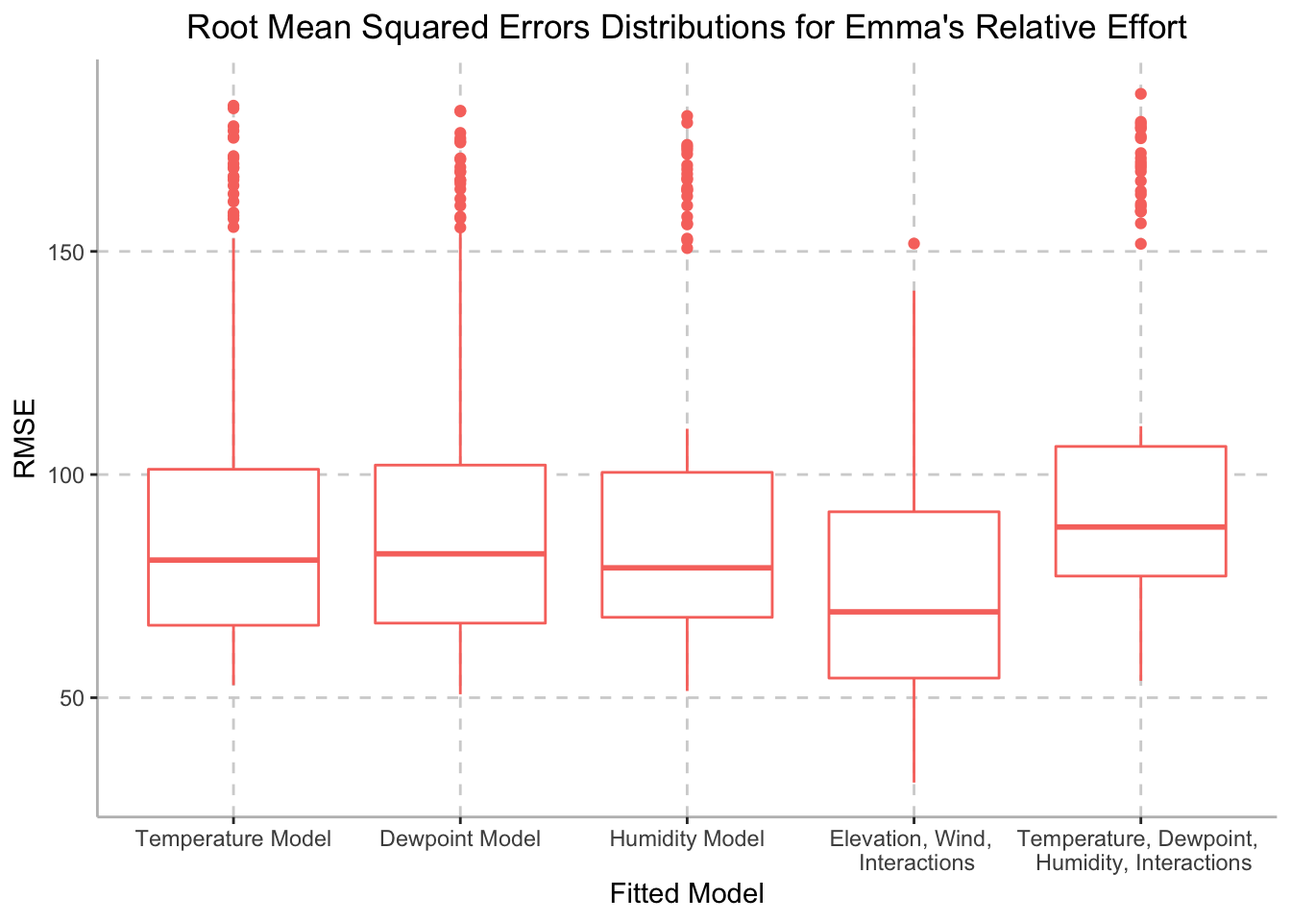
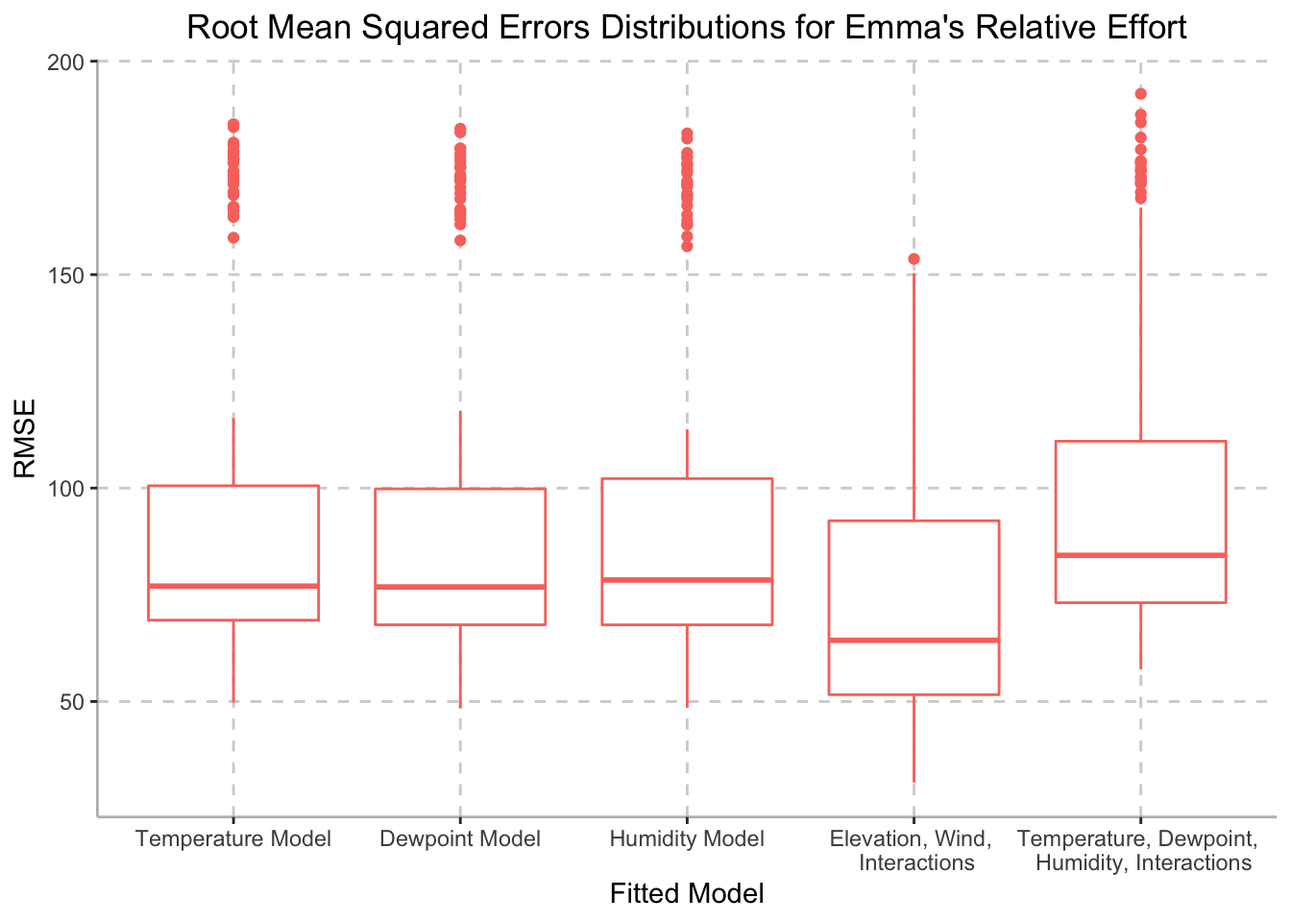
discussion and edits, etc.

diff --git a/final_report.html b/final_report.html
@@ -464,6 +464,14 @@ factors good predictors for her performance?</li>
 <h2>Data</h2>
 <p>In preparation for data analysis, we will load the following
 libraries:</p>
+<ul>
+<li><code>tidyverse</code></li>
+<li><code>FITfileR</code></li>
+<li><code>dplyr</code></li>
+<li><code>patchwork</code></li>
+<li><code>leaflet</code></li>
+<li><code>modelr</code></li>
+</ul>
 <pre class="r"><code>library(tidyverse)
 library(FITfileR)
 library(dplyr)
@@ -479,7 +487,7 @@ saved in the form of a <code>.csv</code> file (imported using
 compiled and saved in a <code>.fit</code> file (imported using
 <code>FITfileR</code>).</p>
 <div id="importing-describing-raw-data" class="section level3">
-<h3><em>Importing &amp; Describing Raw Data</em></h3>
+<h3>Importing &amp; Describing Raw Data</h3>
 <p>First, we imported the summary-level data of all of Emma’s training
 runs from July 23, 2020 to November 6, 2022 using the
 <code>read_csv</code> function.</p>
@@ -567,7 +575,7 @@ rate data, mean = 95.462963</li>
 <li><code>elevation_gain</code>: Elevation gained during the activity,
 mean = 58.0976234</li>
 <li><code>elevation_loss</code>: Elevation lost during the activity,
-mean = NA</li>
+mean = 469.7619048</li>
 <li><code>max_grade</code>: Maximum grade during the activity, mean =
 24.2052355</li>
 <li><code>average_grade</code>: Average grade during the activity, mean
@@ -580,30 +588,29 @@ during the activity, mean = 79.7518814</li>
 454.2592593</li>
 <li><code>weather_temperature</code>: Temperature (Celsius) during the
 activity, mean = 7.4808794</li>
-<li><code>dewpoint</code>: Dew point during the activity, mean = NA</li>
+<li><code>dewpoint</code>: Dew point during the activity, mean =
+13.614</li>
 <li><code>humidity</code>: Humidity (%) during the activity, mean =
-NA</li>
+0.7151765</li>
 <li><code>wind_speed</code>: Wind speed in meters per second during the
-activity, mean = NA</li>
+activity, mean = 2.1948235</li>
 </ul>
 </div>
 </div>
 <div id="exploratory-analysis" class="section level2">
 <h2>Exploratory Analysis</h2>
-<ul>
-<li>Mileage over time (Intro) - Individual monthly or weekly
-mileage</li>
-<li>Rounded mileage to closest mile, density plot of how many times you
-ran a certain mileage or violin</li>
-<li>Temperature vs average speed/average heart rate/relative effort (all
-of these) – * Elevation vs average speed/relative effort</li>
-<li>Mapping running trails (plotly/gis(?)) - only marathon route, map
-cadence/heart rate</li>
-<li>Predict mph in marathon using temperature, humidity, relative
-effort, etc.</li>
-</ul>
-<p>Side note: Rest days are not in strava data - create data set with
-all dates. we make a variable that is yes/no for rest days.</p>
+<p>To first visualize Emma’s training schedule, we created a weekly
+mileage plot illustrating her mileage (km) ran over her training period.
+We then looked to investigate the optimal running length for her
+training sessions using a density plot, as well as investigating the
+relationship between temperature and average speed, average heart rate,
+and relative effort. We then investigated the relationship between
+humidity and average speed, average heart rate, and relative effort.
+Finally, we plotted Emma’s NYCM racing path throughout NYC, including
+average speed, heart rate, cadence, and altitude for each mile during
+the race.</p>
+<p>Note: data only includes Emma’s logged activities - rest days were
+not included.</p>
 <div id="mileage-over-time" class="section level3">
 <h3>Mileage Over Time</h3>
 <pre class="r"><code>tidy_training = tidy_training %&gt;% 
@@ -824,8 +831,8 @@ bottom left demonstrates the relationship between external humidity and
 Emma’s average heart rate. While humidity varied between 32% and 96%,
 Emma’s heart rate averaged around 155.</p>
 <p>Finally, although we hypothesized that external humidity would be
-inversely related to Emma’s relatie effort, the plot on the bottom right
-demonstrates the relationship between external humidity and Emma’s
+inversely related to Emma’s relative effort, the plot on the bottom
+right demonstrates the relationship between external humidity and Emma’s
 relative effort during her training period. The variable relative effort
 is calculated by Strava and based off of her heart rate during the
 training session. The plot demonstrates that while humidity varied
@@ -833,7 +840,6 @@ between 32% and 96%, Emma’s relative effort averaged around 150.</p>
 </div>
 <div id="interactive-marathon-route-map" class="section level3">
 <h3>Interactive Marathon Route Map</h3>
-<p>NOTE: Install Leaflet Prior to Running</p>
 <p>Loading and Cleaning the Data</p>
 <pre class="r"><code>marathon_day &lt;- read_csv(&quot;activities/marathon_day.csv&quot;)
 
@@ -869,25 +875,42 @@ mutate(group = case_when(
     between(distance_m, 23, 23.9999) ~ &quot;23&quot;,
     between(distance_m, 24, 24.9999) ~ &quot;24&quot;,
     between(distance_m, 25, 25.9999) ~ &quot;25&quot;,
-    between(distance_m, 26, 26.9999) ~ &quot;26-Finish&quot;)) </code></pre>
-<p>Recode</p>
-<pre class="r"><code>marathon_geo =
+    between(distance_m, 26, 26.9999) ~ &quot;26-Finish&quot;)) 
+
+#Recode
+marathon_geo =
   marathon_day %&gt;% 
   mutate(
     latitude  = position_lat,
     longitude = position_long) %&gt;% 
-  select(-position_lat, -position_long)</code></pre>
-<pre class="r"><code>marathon_speed =
+  select(-position_lat, -position_long)
+
+marathon_speed =
 marathon_geo %&gt;% 
   group_by(group) %&gt;% 
   mutate(
-    speed_km = 
-  enhanced_speed*2.237)</code></pre>
-<p>Aggregate Data</p>
-<pre class="r"><code>agg = aggregate(marathon_speed,
+    speed_mile = 
+  enhanced_speed*2.237)
+
+#Aggregate Data
+agg = aggregate(marathon_speed,
                 by = list(marathon_geo$group),
                 FUN = mean)</code></pre>
-<p>Aggregate Leaflet Plot</p>
+<p>In order to display Emma’s progress throughout the NYC Marathon an
+interactive map was created. Utilizing data from the ‘marathon_day’ data
+set, cleaning began with converting the distance measurement from
+kilometers to miles, in order to best display the race. From this, each
+observation was grouped by mileage (1-26), with a Start (Mile 0) and
+Finish (Mile 26.6) observation being added as well. Variables
+‘position_longitude’ and ‘position_latitude’ were recoded to ‘longitude’
+and ‘latitude’ within the data set. A new data set ‘marathon_speed’ was
+generated in order to group all observations based on mile as well as
+convert speed from its initial unit of meters per second to miles per
+hour. The data was then aggregated in order to create averages for each
+of Emma’s mile statistics such as Speed, Heart Rate, Cadence, as well as
+Altitude. Leaflet was then used to display all mile markers along the
+26.6 Mile route, in addition to a pop-up that includes Emma’s summary
+statistics for each running stint of the marathon.</p>
 <pre class="r"><code>leaflet() %&gt;% 
   addTiles() %&gt;% 
   addCircleMarkers(data = agg,
@@ -898,15 +921,15 @@ marathon_geo %&gt;%
              color = &quot;orange&quot;,
              stroke = TRUE, fillOpacity = 0.75,
              popup = ~paste(&quot;Mile:&quot;, Group.1,
-                            &quot;&lt;br&gt;Speed:&quot;, speed_km,
+                            &quot;&lt;br&gt;Speed:&quot;, speed_mile,
                             &quot;&lt;br&gt;HR:&quot;, heart_rate,
                              &quot;&lt;br&gt;Cadence:&quot;, cadence,
                             &quot;&lt;br&gt;Altitude:&quot;, enhanced_altitude)) %&gt;% 
   addProviderTiles(providers$CartoDB.Positron)</code></pre>
-<div id="htmlwidget-0f07be8e751d6cec8391" style="width:672px;height:480px;" class="leaflet html-widget"></div>
-<script type="application/json" data-for="htmlwidget-0f07be8e751d6cec8391">{"x":{"options":{"crs":{"crsClass":"L.CRS.EPSG3857","code":null,"proj4def":null,"projectedBounds":null,"options":{}}},"calls":[{"method":"addTiles","args":["https://{s}.tile.openstreetmap.org/{z}/{x}/{y}.png",null,null,{"minZoom":0,"maxZoom":18,"tileSize":256,"subdomains":"abc","errorTileUrl":"","tms":false,"noWrap":false,"zoomOffset":0,"zoomReverse":false,"opacity":1,"zIndex":1,"detectRetina":false,"attribution":"&copy; <a href=\"https://openstreetmap.org\">OpenStreetMap<\/a> contributors, <a href=\"https://creativecommons.org/licenses/by-sa/2.0/\">CC-BY-SA<\/a>"}]},{"method":"addCircleMarkers","args":[[40.6104348705628,40.7042159239592,40.7164656348145,40.728277819874,40.740826228118,40.7491534880795,40.7558571904419,40.7777123779879,40.7903228550433,40.8023561141454,40.6192627834549,40.8118997489457,40.8102504578455,40.8001325806757,40.7882020822061,40.7763461387941,40.766959590201,40.770384692587,null,40.6444014760309,40.6557787290627,40.6671305434582,40.6794894834151,40.6876716191673,40.6921380146503,40.6043989839213],[-74.0346232919979,-73.9608535200188,-73.9589246148317,-73.9524508345938,-73.9525773309703,-73.9450712946021,-73.9528505667326,-73.9487948260759,-73.939629788009,-73.9298666665563,-74.0288426203294,-73.928230043045,-73.9394263029525,-73.9473303446644,-73.9557053759358,-73.966941702771,-73.9756988926056,-73.9788563751305,null,-74.0148388704929,-74.0029969833497,-73.9916699058621,-73.9818277620092,-73.9710569978992,-73.9571167532644,-74.0517789316213],7,null,null,{"interactive":true,"className":"","stroke":true,"color":"orange","weight":5,"opacity":0.5,"fill":true,"fillColor":"orange","fillOpacity":0.75},null,null,["Mile: 1 <br>Speed: 7.16634034234234 <br>HR: 169.648648648649 <br>Cadence: 79.945945945946 <br>Altitude: 55.3783783783784","Mile: 10 <br>Speed: 5.91045904545455 <br>HR: 173.840909090909 <br>Cadence: 78.7045454545455 <br>Altitude: 33.7590909090909","Mile: 11 <br>Speed: 6.16624646456693 <br>HR: 177.094488188976 <br>Cadence: 82.5984251968504 <br>Altitude: 16.0708661417323","Mile: 12 <br>Speed: 6.49777232743363 <br>HR: 177.964601769911 <br>Cadence: 80.9469026548673 <br>Altitude: 18.8495575221239","Mile: 13 <br>Speed: 6.69400279464286 <br>HR: 178.732142857143 <br>Cadence: 82.5803571428571 <br>Altitude: 12.6339285714286","Mile: 14 <br>Speed: 5.6681484084507 <br>HR: 176.633802816901 <br>Cadence: 82.3943661971831 <br>Altitude: 32.8197183098592","Mile: 15 <br>Speed: 3.31547001376147 <br>HR: 139.56880733945 <br>Cadence: 79.0596330275229 <br>Altitude: 24.3201834862385","Mile: 17 <br>Speed: 6.22130553389831 <br>HR: 171.686440677966 <br>Cadence: 82.7966101694915 <br>Altitude: 42.0186440677966","Mile: 18 <br>Speed: 5.64340035384615 <br>HR: 150.307692307692 <br>Cadence: 72.3923076923077 <br>Altitude: 23.2507692307692","Mile: 19 <br>Speed: 5.27883065625 <br>HR: 145.89375 <br>Cadence: 71.54375 <br>Altitude: 24.7425","Mile: 2 <br>Speed: 6.9439558440367 <br>HR: 173 <br>Cadence: 80.8623853211009 <br>Altitude: 28.9633027522936","Mile: 20 <br>Speed: 5.93609676258993 <br>HR: 160.647482014388 <br>Cadence: 81.4244604316547 <br>Altitude: 13.6474820143885","Mile: 21 <br>Speed: 6.25834048854962 <br>HR: 159.206106870229 <br>Cadence: 81.8015267175573 <br>Altitude: 27.1435114503817","Mile: 22 <br>Speed: 5.80403946616541 <br>HR: 167.353383458647 <br>Cadence: 80.4586466165414 <br>Altitude: 46.0736842105263","Mile: 23 <br>Speed: 5.55055204511278 <br>HR: 172.233082706767 <br>Cadence: 76.6842105263158 <br>Altitude: 73.8285714285714","Mile: 24 <br>Speed: 5.43006440875912 <br>HR: 173.737226277372 <br>Cadence: 71.2116788321168 <br>Altitude: 26.043795620438","Mile: 25 <br>Speed: 5.92434019254658 <br>HR: 176.484472049689 <br>Cadence: 80.0683229813665 <br>Altitude: 7.53540372670807","Mile: 26-Finish <br>Speed: 6.85462368518519 <br>HR: 183.296296296296 <br>Cadence: 86.1481481481482 <br>Altitude: 19.3185185185185","Mile: 3 <br>Speed: NA <br>HR: 174.938053097345 <br>Cadence: 80.4070796460177 <br>Altitude: 33.7256637168142","Mile: 4 <br>Speed: 6.94028204672897 <br>HR: 175.383177570093 <br>Cadence: 80.4485981308411 <br>Altitude: 27.985046728972","Mile: 5 <br>Speed: 6.79859621052632 <br>HR: 172.69298245614 <br>Cadence: 81.3245614035088 <br>Altitude: 14.8368421052632","Mile: 6 <br>Speed: 6.84808492982456 <br>HR: 175.333333333333 <br>Cadence: 81.780701754386 <br>Altitude: 26.0666666666667","Mile: 7 <br>Speed: 6.65007464705882 <br>HR: 175.352941176471 <br>Cadence: 79.4705882352941 <br>Altitude: 22.6436974789916","Mile: 8 <br>Speed: 6.82514246280992 <br>HR: 177.280991735537 <br>Cadence: 81.7851239669422 <br>Altitude: 42.1074380165289","Mile: 9 <br>Speed: 6.75896050862069 <br>HR: 177.534482758621 <br>Cadence: 82.5948275862069 <br>Altitude: 37.3586206896552","Mile: Start <br>Speed: 6.53191371774194 <br>HR: 168.548387096774 <br>Cadence: 80.9112903225806 <br>Altitude: 68.2774193548387"],null,["1","10","11","12","13","14","15","17","18","19","2","20","21","22","23","24","25","26-Finish","3","4","5","6","7","8","9","Start"],{"interactive":false,"permanent":false,"direction":"auto","opacity":1,"offset":[0,0],"textsize":"10px","textOnly":false,"className":"","sticky":true},null]},{"method":"addProviderTiles","args":["CartoDB.Positron",null,null,{"errorTileUrl":"","noWrap":false,"detectRetina":false}]}],"limits":{"lat":[40.6043989839213,40.8118997489457],"lng":[-74.0517789316213,-73.928230043045]}},"evals":[],"jsHooks":[]}</script>
+<div id="htmlwidget-b9987b4c056133ea3aa0" style="width:672px;height:480px;" class="leaflet html-widget"></div>
+<script type="application/json" data-for="htmlwidget-b9987b4c056133ea3aa0">{"x":{"options":{"crs":{"crsClass":"L.CRS.EPSG3857","code":null,"proj4def":null,"projectedBounds":null,"options":{}}},"calls":[{"method":"addTiles","args":["https://{s}.tile.openstreetmap.org/{z}/{x}/{y}.png",null,null,{"minZoom":0,"maxZoom":18,"tileSize":256,"subdomains":"abc","errorTileUrl":"","tms":false,"noWrap":false,"zoomOffset":0,"zoomReverse":false,"opacity":1,"zIndex":1,"detectRetina":false,"attribution":"&copy; <a href=\"https://openstreetmap.org\">OpenStreetMap<\/a> contributors, <a href=\"https://creativecommons.org/licenses/by-sa/2.0/\">CC-BY-SA<\/a>"}]},{"method":"addCircleMarkers","args":[[40.6104348705628,40.7042159239592,40.7164656348145,40.728277819874,40.740826228118,40.7491534880795,40.7558571904419,40.7777123779879,40.7903228550433,40.8023561141454,40.6192627834549,40.8118997489457,40.8102504578455,40.8001325806757,40.7882020822061,40.7763461387941,40.766959590201,40.770384692587,null,40.6444014760309,40.6557787290627,40.6671305434582,40.6794894834151,40.6876716191673,40.6921380146503,40.6043989839213],[-74.0346232919979,-73.9608535200188,-73.9589246148317,-73.9524508345938,-73.9525773309703,-73.9450712946021,-73.9528505667326,-73.9487948260759,-73.939629788009,-73.9298666665563,-74.0288426203294,-73.928230043045,-73.9394263029525,-73.9473303446644,-73.9557053759358,-73.966941702771,-73.9756988926056,-73.9788563751305,null,-74.0148388704929,-74.0029969833497,-73.9916699058621,-73.9818277620092,-73.9710569978992,-73.9571167532644,-74.0517789316213],7,null,null,{"interactive":true,"className":"","stroke":true,"color":"orange","weight":5,"opacity":0.5,"fill":true,"fillColor":"orange","fillOpacity":0.75},null,null,["Mile: 1 <br>Speed: 7.16634034234234 <br>HR: 169.648648648649 <br>Cadence: 79.945945945946 <br>Altitude: 55.3783783783784","Mile: 10 <br>Speed: 5.91045904545455 <br>HR: 173.840909090909 <br>Cadence: 78.7045454545455 <br>Altitude: 33.7590909090909","Mile: 11 <br>Speed: 6.16624646456693 <br>HR: 177.094488188976 <br>Cadence: 82.5984251968504 <br>Altitude: 16.0708661417323","Mile: 12 <br>Speed: 6.49777232743363 <br>HR: 177.964601769911 <br>Cadence: 80.9469026548673 <br>Altitude: 18.8495575221239","Mile: 13 <br>Speed: 6.69400279464286 <br>HR: 178.732142857143 <br>Cadence: 82.5803571428571 <br>Altitude: 12.6339285714286","Mile: 14 <br>Speed: 5.6681484084507 <br>HR: 176.633802816901 <br>Cadence: 82.3943661971831 <br>Altitude: 32.8197183098592","Mile: 15 <br>Speed: 3.31547001376147 <br>HR: 139.56880733945 <br>Cadence: 79.0596330275229 <br>Altitude: 24.3201834862385","Mile: 17 <br>Speed: 6.22130553389831 <br>HR: 171.686440677966 <br>Cadence: 82.7966101694915 <br>Altitude: 42.0186440677966","Mile: 18 <br>Speed: 5.64340035384615 <br>HR: 150.307692307692 <br>Cadence: 72.3923076923077 <br>Altitude: 23.2507692307692","Mile: 19 <br>Speed: 5.27883065625 <br>HR: 145.89375 <br>Cadence: 71.54375 <br>Altitude: 24.7425","Mile: 2 <br>Speed: 6.9439558440367 <br>HR: 173 <br>Cadence: 80.8623853211009 <br>Altitude: 28.9633027522936","Mile: 20 <br>Speed: 5.93609676258993 <br>HR: 160.647482014388 <br>Cadence: 81.4244604316547 <br>Altitude: 13.6474820143885","Mile: 21 <br>Speed: 6.25834048854962 <br>HR: 159.206106870229 <br>Cadence: 81.8015267175573 <br>Altitude: 27.1435114503817","Mile: 22 <br>Speed: 5.80403946616541 <br>HR: 167.353383458647 <br>Cadence: 80.4586466165414 <br>Altitude: 46.0736842105263","Mile: 23 <br>Speed: 5.55055204511278 <br>HR: 172.233082706767 <br>Cadence: 76.6842105263158 <br>Altitude: 73.8285714285714","Mile: 24 <br>Speed: 5.43006440875912 <br>HR: 173.737226277372 <br>Cadence: 71.2116788321168 <br>Altitude: 26.043795620438","Mile: 25 <br>Speed: 5.92434019254658 <br>HR: 176.484472049689 <br>Cadence: 80.0683229813665 <br>Altitude: 7.53540372670807","Mile: 26-Finish <br>Speed: 6.85462368518519 <br>HR: 183.296296296296 <br>Cadence: 86.1481481481482 <br>Altitude: 19.3185185185185","Mile: 3 <br>Speed: NA <br>HR: 174.938053097345 <br>Cadence: 80.4070796460177 <br>Altitude: 33.7256637168142","Mile: 4 <br>Speed: 6.94028204672897 <br>HR: 175.383177570093 <br>Cadence: 80.4485981308411 <br>Altitude: 27.985046728972","Mile: 5 <br>Speed: 6.79859621052632 <br>HR: 172.69298245614 <br>Cadence: 81.3245614035088 <br>Altitude: 14.8368421052632","Mile: 6 <br>Speed: 6.84808492982456 <br>HR: 175.333333333333 <br>Cadence: 81.780701754386 <br>Altitude: 26.0666666666667","Mile: 7 <br>Speed: 6.65007464705882 <br>HR: 175.352941176471 <br>Cadence: 79.4705882352941 <br>Altitude: 22.6436974789916","Mile: 8 <br>Speed: 6.82514246280992 <br>HR: 177.280991735537 <br>Cadence: 81.7851239669422 <br>Altitude: 42.1074380165289","Mile: 9 <br>Speed: 6.75896050862069 <br>HR: 177.534482758621 <br>Cadence: 82.5948275862069 <br>Altitude: 37.3586206896552","Mile: Start <br>Speed: 6.53191371774194 <br>HR: 168.548387096774 <br>Cadence: 80.9112903225806 <br>Altitude: 68.2774193548387"],null,["1","10","11","12","13","14","15","17","18","19","2","20","21","22","23","24","25","26-Finish","3","4","5","6","7","8","9","Start"],{"interactive":false,"permanent":false,"direction":"auto","opacity":1,"offset":[0,0],"textsize":"10px","textOnly":false,"className":"","sticky":true},null]},{"method":"addProviderTiles","args":["CartoDB.Positron",null,null,{"errorTileUrl":"","noWrap":false,"detectRetina":false}]}],"limits":{"lat":[40.6043989839213,40.8118997489457],"lng":[-74.0517789316213,-73.928230043045]}},"evals":[],"jsHooks":[]}</script>
 <p>The leaflet plot above demonstrates Emma’s NYCM racing path. Each
-marker indicates the mile number and average speed (meters/sec), heart
+marker indicates the mile number and average speed (miles/hour), heart
 rate, cadence, and altitude for that mile. As a note, Strava failed to
 record information for Mile 3, and is therefore not included in the
 leaflet above.</p>
@@ -916,6 +939,23 @@ leaflet above.</p>
 <h2>Additional Analysis</h2>
 <div id="speed-regression-models" class="section level3">
 <h3>Speed Regression Models</h3>
+<p>Based on Emma’s recount of personal experience, she perceives
+environmental factors to be significant predictors of her performance.
+More specifically, weather conditions such as temperature, humidity,
+dewpoint, and windspeed affect Emma’s perceived running experience.
+Additionally, due to the irregular environmental conditions on race day,
+we generated several models to investigate which environmental factors
+would be best predictors for Emma’s performance. We hypothesize that
+Emma’s average speed is dependent on temperature. To test this
+hypothesis, we built the following models:</p>
+<ul>
+<li>Average speed vs temperature</li>
+<li>Average speed vs dewpoint</li>
+<li>Average speed vs humidity</li>
+<li>Average speed vs elevation gain and wind speed, and all
+interactions</li>
+<li>Average speed vs temperature and dewpoint, and all interactions</li>
+</ul>
 <pre class="r"><code>fit1 = lm(average_speed ~ weather_temperature, data = tidy_training)
 fit2 = lm(average_speed ~ dewpoint, data = tidy_training)
 fit3 = lm(average_speed ~ humidity, data = tidy_training)
@@ -924,6 +964,18 @@ fit5 = lm(average_speed ~ (weather_temperature + dewpoint)^3, data = tidy_traini
 </div>
 <div id="cross-validation-speed" class="section level3">
 <h3>Cross-Validation: Speed</h3>
+<p>We can now perform a comparison between the five models in terms of
+cross-validated prediction error. To do this, we first create a
+cross-validation data frame <code>cv_df</code>. Contained within
+<code>cv_df</code> is 2 side-by-side list columns with the testing and
+training data split pairs, with a corresponding ID number for each pair.
+Since we are able to apply resample objects directly into
+<code>lm</code> functions, we can skip the extra step of converting the
+testing and training data into tibbles. Next, we apply the
+<code>map</code> function to map each regression model to the training
+data. Finally, we can compute the root mean squared errors (RMSEs) for
+each model by applying the <code>map2_dbl</code> function to the testing
+data.</p>
 <pre class="r"><code>cv_df = 
   crossv_mc(tidy_training, 100)
 
@@ -964,8 +1016,8 @@ cv_df %&gt;%
                               &quot;mod3&quot; = &quot;Humidity Model&quot;,
                               &quot;mod4&quot; = &quot;Elevation, Wind, \n Interactions&quot;,
                               &quot;mod5&quot; = &quot;Temperature, Dewpoint, \n Interactions&quot;))</code></pre>
-<p><img src="final_report_files/figure-html/unnamed-chunk-15-1.png" width="672" /></p>
-<pre class="r"><code>summary(fit1)</code></pre>
+<p><img src="final_report_files/figure-html/unnamed-chunk-12-1.png" width="672" /></p>
+<pre class="r"><code>summary(fit1) </code></pre>
 <pre><code>## 
 ## Call:
 ## lm(formula = average_speed ~ weather_temperature, data = tidy_training)
@@ -985,9 +1037,26 @@ cv_df %&gt;%
 ##   (23 observations deleted due to missingness)
 ## Multiple R-squared:  0.05483,    Adjusted R-squared:  0.04344 
 ## F-statistic: 4.815 on 1 and 83 DF,  p-value: 0.03101</code></pre>
+<p>Based on the distributions depicted above, we can conclude that the
+model with temperature is able to generate better predictions than the
+other models with environmental factors. The p-value for this model is
+0.03101. As it is below the significance level of 0.05, we can conclude
+that this model is a good predictor for average speed.</p>
 </div>
 <div id="relative-effort-regression-models" class="section level3">
 <h3>Relative Effort Regression Models</h3>
+<p>Additionally, we hypothesize that Emma’s relative effort is dependent
+on temperature. To test this hypothesis, we built the following
+models:</p>
+<ul>
+<li>Relative effort vs temperature</li>
+<li>Relative effort vs dewpoint</li>
+<li>Relative effort vs humidity</li>
+<li>Relative effort vs elevation gain and wind speed, and all
+interactions</li>
+<li>Relative effort vs temperature and dewpoint, and all
+interactions</li>
+</ul>
 <pre class="r"><code>fit1 = lm(relative_effort ~ weather_temperature, data = tidy_training)
 fit2 = lm(relative_effort ~ dewpoint, data = tidy_training)
 fit3 = lm(relative_effort ~ humidity, data = tidy_training)
@@ -996,6 +1065,7 @@ fit5 = lm(relative_effort ~ (weather_temperature + dewpoint + humidity)^4, data 
 </div>
 <div id="cross-validation-relative-effort" class="section level3">
 <h3>Cross-Validation: Relative Effort</h3>
+<p>We followed the same cross validation process as above.</p>
 <pre class="r"><code>cv_df = 
   crossv_mc(tidy_training, 100)
 
@@ -1036,7 +1106,7 @@ cv_df %&gt;%
                               &quot;mod3&quot; = &quot;Humidity Model&quot;,
                               &quot;mod4&quot; = &quot;Elevation, Wind, \n Interactions&quot;,
                               &quot;mod5&quot; = &quot;Temperature, Dewpoint, \n Humidity, Interactions&quot;))</code></pre>
-<p><img src="final_report_files/figure-html/unnamed-chunk-17-1.png" width="672" /></p>
+<p><img src="final_report_files/figure-html/unnamed-chunk-14-1.png" width="672" /></p>
 <pre class="r"><code>summary(fit4)</code></pre>
 <pre><code>## 
 ## Call:
@@ -1060,10 +1130,49 @@ cv_df %&gt;%
 ##   (23 observations deleted due to missingness)
 ## Multiple R-squared:  0.6311, Adjusted R-squared:  0.6175 
 ## F-statistic: 46.19 on 3 and 81 DF,  p-value: &lt; 2.2e-16</code></pre>
+<p>Based on the distributions depicted above, we can conclude that the
+model with elevation, wind, and interactions is able to generate better
+predictions than the other models with environmental factors. The
+p-value for this model is &lt; 2.2 e-16. As it is below the significance
+level, we can conclude that this model is a good predictor for average
+speed.</p>
 </div>
 </div>
 <div id="discussion" class="section level2">
 <h2>Discussion</h2>
+<p>Our analysis sought to analyze the impact of external factors, such
+as temperature, wind, elevation, etc., on Emma’s speed and performance
+during the NYC Marathon, while also considering how training changed
+over time in order to improve her training for the next marathon.</p>
+<p>To investigate the impact of these external factors, we created a
+series of plots demonstrating the relationship between external
+temperature and humidity with Emma’s average speed, heart rate, and
+relative effort. We expected external temperature and humidity to be
+inversely related with Emma’s average speed, heart rate, and relative
+effort. However, the plots created demonstrated that while temperature
+varied between 6.58˚C to 27.89˚C, Emma’s average speed, heart rate, and
+relative effort remained relatively stable. Emma’s average speed was
+approximately 3 meters/second throughout her training period. Her
+average heart rate remained around 155 throughout her training period,
+and her relative effort remained around 150. Similarly, the plots
+created demonstrated that while humidity varied between 325 and 96%,
+Emma’s average speed, heart rate, and relative effort remained
+relatively stable. Although we had hypothesized that external
+temperature and humidity would have a greater impact on Emma’s
+performance throughout her training period, our analysis demonstrated
+otherwise, indicating that Emma’s body is more resilient to external
+factors than expected.</p>
+<p>Additionally, from our prediction models, we can conclude that
+temperature is a good predictor for average speed, with a p-value of
+0.03101 and that elevation, wind, and is interactions are a good
+predictor for relative effort, with a p-value of &lt;2.2 e-16. If Emma
+integrates into her training varying temperature conditions in addition
+to different elevation changes, this would help better prepare her for
+her next marathon.</p>
+<p>In preparation for Emma’s next marathon, this data analysis reveals
+that it would be most effective to consider temperature and elevation of
+her next marathon’s race course.</p>
+<p>Go Emma!!!</p>
 </div>
 
 
